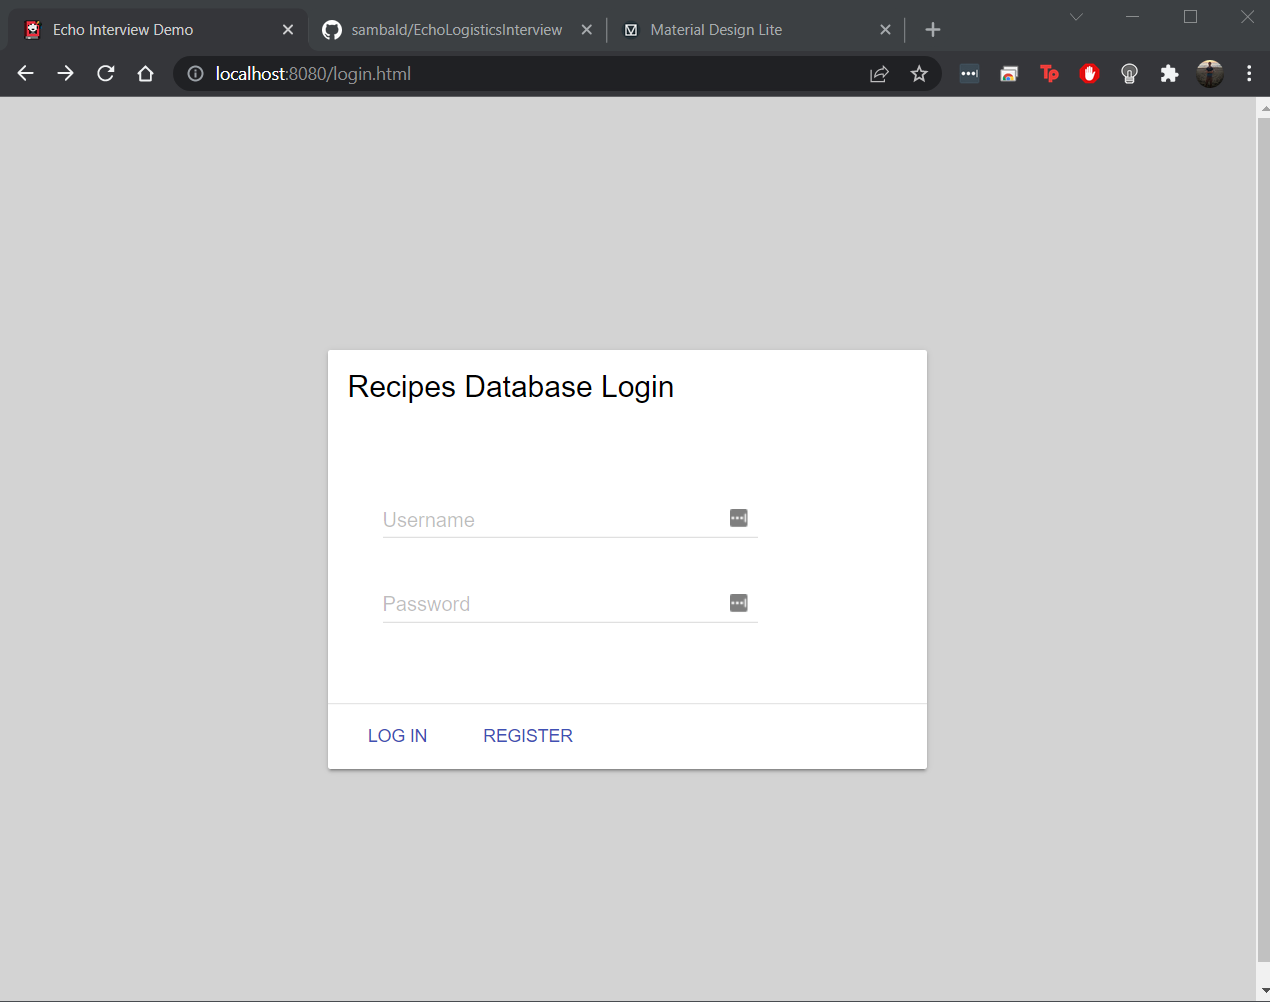
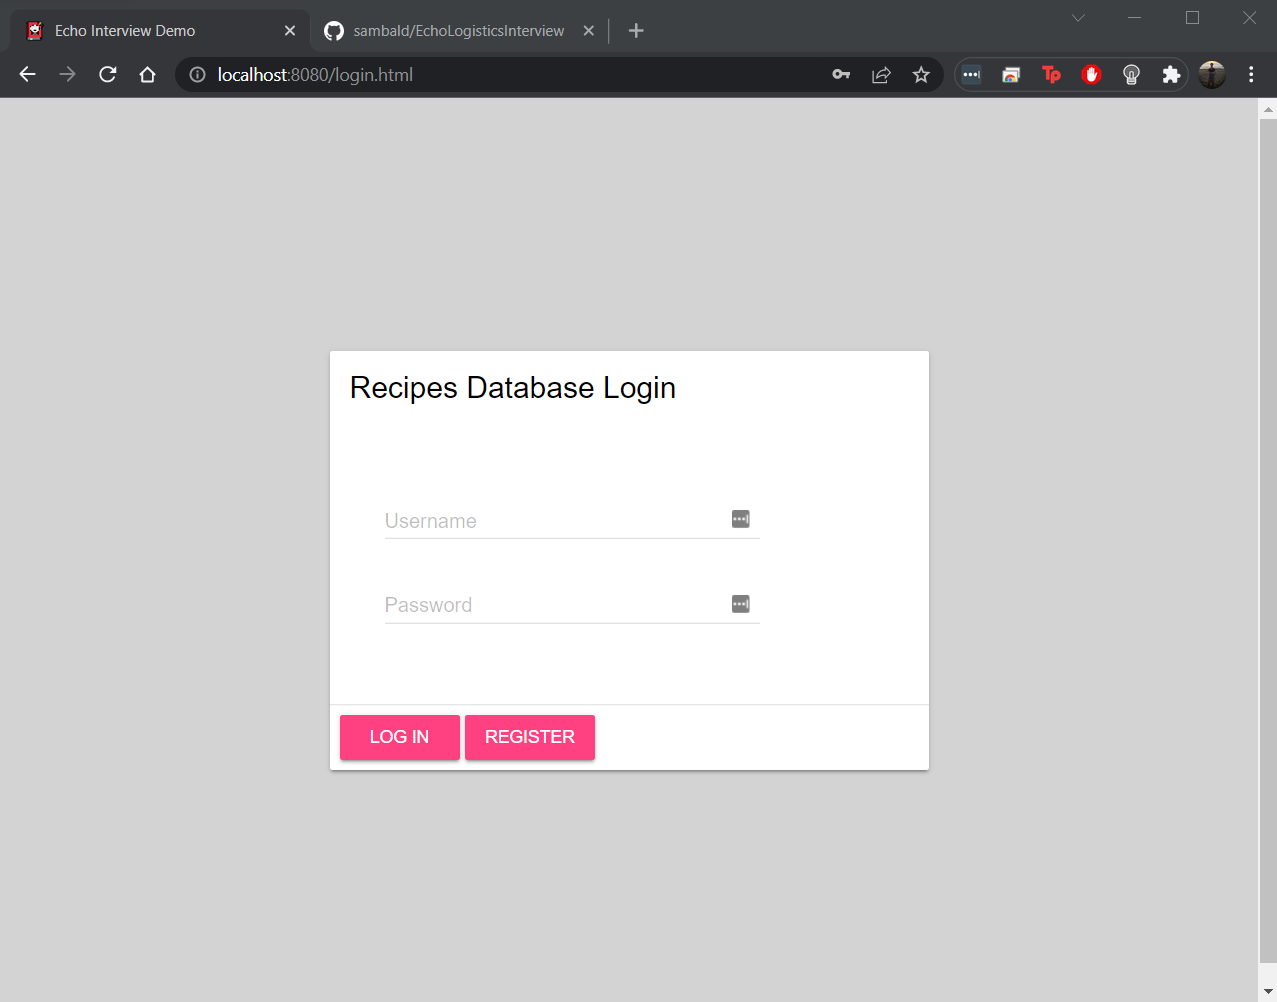
Cleaned up some buttons and README screenshots

diff --git a/frontend/static/createRecipe.html b/frontend/static/createRecipe.html
@@ -67,21 +67,24 @@
                                     <td>
                                         <div class="mdl-textfield mdl-js-textfield" style="width:200px">
                                             <input class="mdl-textfield__input" type="text" id="ingredientName">
-                                            <label class="mdl-textfield__label" for="ingredient1Name">Ingredient 1</label>
+                                            <label class="mdl-textfield__label" for="ingredient1Name">Ingredient
+                                                1</label>
                                         </div>
                                     </td>
                                     <td>
                                         <div class="mdl-textfield mdl-js-textfield" style="width:200px">
                                             <input class="mdl-textfield__input" type="text"
                                                 pattern="-?[0-9]*(\.[0-9]+)?" id="ingredientQuantity">
-                                            <label class="mdl-textfield__label" for="ingredient1Quantity">Quantity 1</label>
+                                            <label class="mdl-textfield__label" for="ingredient1Quantity">Quantity
+                                                1</label>
                                             <span class="mdl-textfield__error">Input is not a number!</span>
                                         </div>
                                     </td>
                                     <td>
                                         <div class="mdl-textfield mdl-js-textfield" style="width:200px">
                                             <input class="mdl-textfield__input" type="text" id="ingredientMeasure">
-                                            <label class="mdl-textfield__label" for="ingredient1Measure">Measure 1</label>
+                                            <label class="mdl-textfield__label" for="ingredient1Measure">Measure
+                                                1</label>
                                         </div>
                                     </td>
                                 </tr>
@@ -91,11 +94,11 @@
                     </div>
                 </form>
                 <button class="mdl-button mdl-js-button mdl-button--raised mdl-js-ripple-effect mdl-button--accent"
-                    id="save-recipe-button" onclick="addIngredientRow();">
+                    style="margin-top:5px;margin-left: 0;" id="save-recipe-button" onclick="addIngredientRow();">
                     Add another Ingredient
                 </button>
                 <button class="mdl-button mdl-js-button mdl-button--raised mdl-js-ripple-effect mdl-button--accent"
-                    id="save-recipe-button" onclick="removeIngredientRow();">
+                    style="margin-top:5px;margin-left: 0;" id="save-recipe-button" onclick="removeIngredientRow();">
                     Remove ingredient
                 </button>
                 <!-- Bad recipe input -->

diff --git a/frontend/static/script.js b/frontend/static/script.js
@@ -162,6 +162,7 @@ let saveRecipe = () => {
 
     const ingredientTable = document.getElementById("ingredient-table");
 
+    //Builds JSON entry
     let recipe = {
         title: document.getElementById("recipeTitle").value,
         description: document.getElementById("recipeDescription").value,
@@ -174,7 +175,7 @@ let saveRecipe = () => {
             measure: c.children[2].children[0].children[0].value,
         }))
     };
-    
+
     console.log(recipe);
 
     //Sends username and password inputs to backend
@@ -228,8 +229,8 @@ let addIngredientRow = () => {
     ingredientRow.children[1].children[0].children[1].innerText = "Quantity " + (ingredientTable.childElementCount + 1);
     ingredientRow.children[2].children[0].children[1].innerText = "Measure " + (ingredientTable.childElementCount + 1);
     ingredientTable.appendChild(ingredientRow);
-    
-    //We cloned MDL textfield inputs... had to google around to figure out how to "reset" them
+
+    //Reset cloned MDL textfield inputs
     ingredientRow.children[0].children[0].classList.remove('is-upgraded');
     ingredientRow.children[1].children[0].classList.remove('is-upgraded');
     ingredientRow.children[2].children[0].classList.remove('is-upgraded');

diff --git a/frontend/static/recipes.html b/frontend/static/recipes.html
@@ -7,6 +7,7 @@
 <meta name="viewport" content="width=device-width,initial-scale=1" />
 
 <!-- Using Google fonts, Material Design Lite, https://getmdl.io/components/index.html -->
+
 <head>
   <link rel="stylesheet" href="https://fonts.googleapis.com/icon?family=Material+Icons">
   <link rel="stylesheet" href="https://code.getmdl.io/1.3.0/material.indigo-pink.min.css">
@@ -26,7 +27,8 @@
         <!-- List of all recipes -->
         <ul class="demo-list-item mdl-list" id="recipe-list"></ul>
       </div>
-      <a class="mdl-button mdl-js-button mdl-button--raised mdl-js-ripple-effect mdl-button--accent" id="create-recipe-button">
+      <a class="mdl-button mdl-js-button mdl-button--raised mdl-js-ripple-effect mdl-button--accent"
+        id="create-recipe-button">
         Create a new Recipe
       </a>
     </div>

diff --git a/frontend/static/login.html b/frontend/static/login.html
@@ -47,11 +47,13 @@
       </div>
       <div class="mdl-card__actions mdl-card--border">
         <!-- Login button -->
-        <a class="mdl-button mdl-button--colored mdl-js-button mdl-js-ripple-effect" onclick="onLoginClick();">
+        <a class="mdl-button mdl-js-button mdl-button--raised mdl-js-ripple-effect mdl-button--accent"
+          onclick="onLoginClick();">
           Log in
         </a>
         <!-- Register -->
-        <a class="mdl-button mdl-button--colored mdl-js-button mdl-js-ripple-effect" onclick="onRegisterClick();">
+        <a class="mdl-button mdl-js-button mdl-button--raised mdl-js-ripple-effect mdl-button--accent"
+          onclick="onRegisterClick();">
           Register
         </a>
       </div>

diff --git a/frontend/static/recipe.html b/frontend/static/recipe.html
@@ -30,6 +30,10 @@
                 <div id="anchor">
                 </div>
             </div>
+            <a class="mdl-button mdl-js-button mdl-button--raised mdl-js-ripple-effect mdl-button--accent"
+                id="recipe-return-button" onclick="history.back()">
+                Return to all recipes
+            </a>
         </div>
     </div>
     <div class="mdl-cell mdl-cell--3-col"></div>

diff --git a/backend/Program.cs b/backend/Program.cs
@@ -3,6 +3,31 @@ using interview;
 var builder = WebApplication.CreateBuilder(args);
 var app = builder.Build();
 
+try
+{
+    using (var db = new EFContext())
+    {
+        //If this is the first time running, create a fresh DB with default data
+        if (!db.Database.CanConnect())
+        {
+            db.Database.EnsureCreated();
+
+            var userID = Guid.NewGuid();
+            var user = new User() { Id = userID, Name = "Sam", Deleted = false, Password = "p@sswrd" };
+
+            //Creates a new user and recipe
+            db.Users.Add(user);
+            db.Recipes.Add(new Recipe() { Id = Guid.NewGuid(), Title = "Banana bread", Deleted = false, Description = "Very delicious!", Time = TimeSpan.FromSeconds(600), UserID = userID, User = user });
+
+            db.SaveChanges();
+        }
+    }
+}
+catch (Exception)
+{
+    //Ignore exceptions here, just for first time setup
+}
+
 //Gets all recipes for all users
 app.MapGet("/api/recipes", RecipesController.GetAllRecipes);
 
